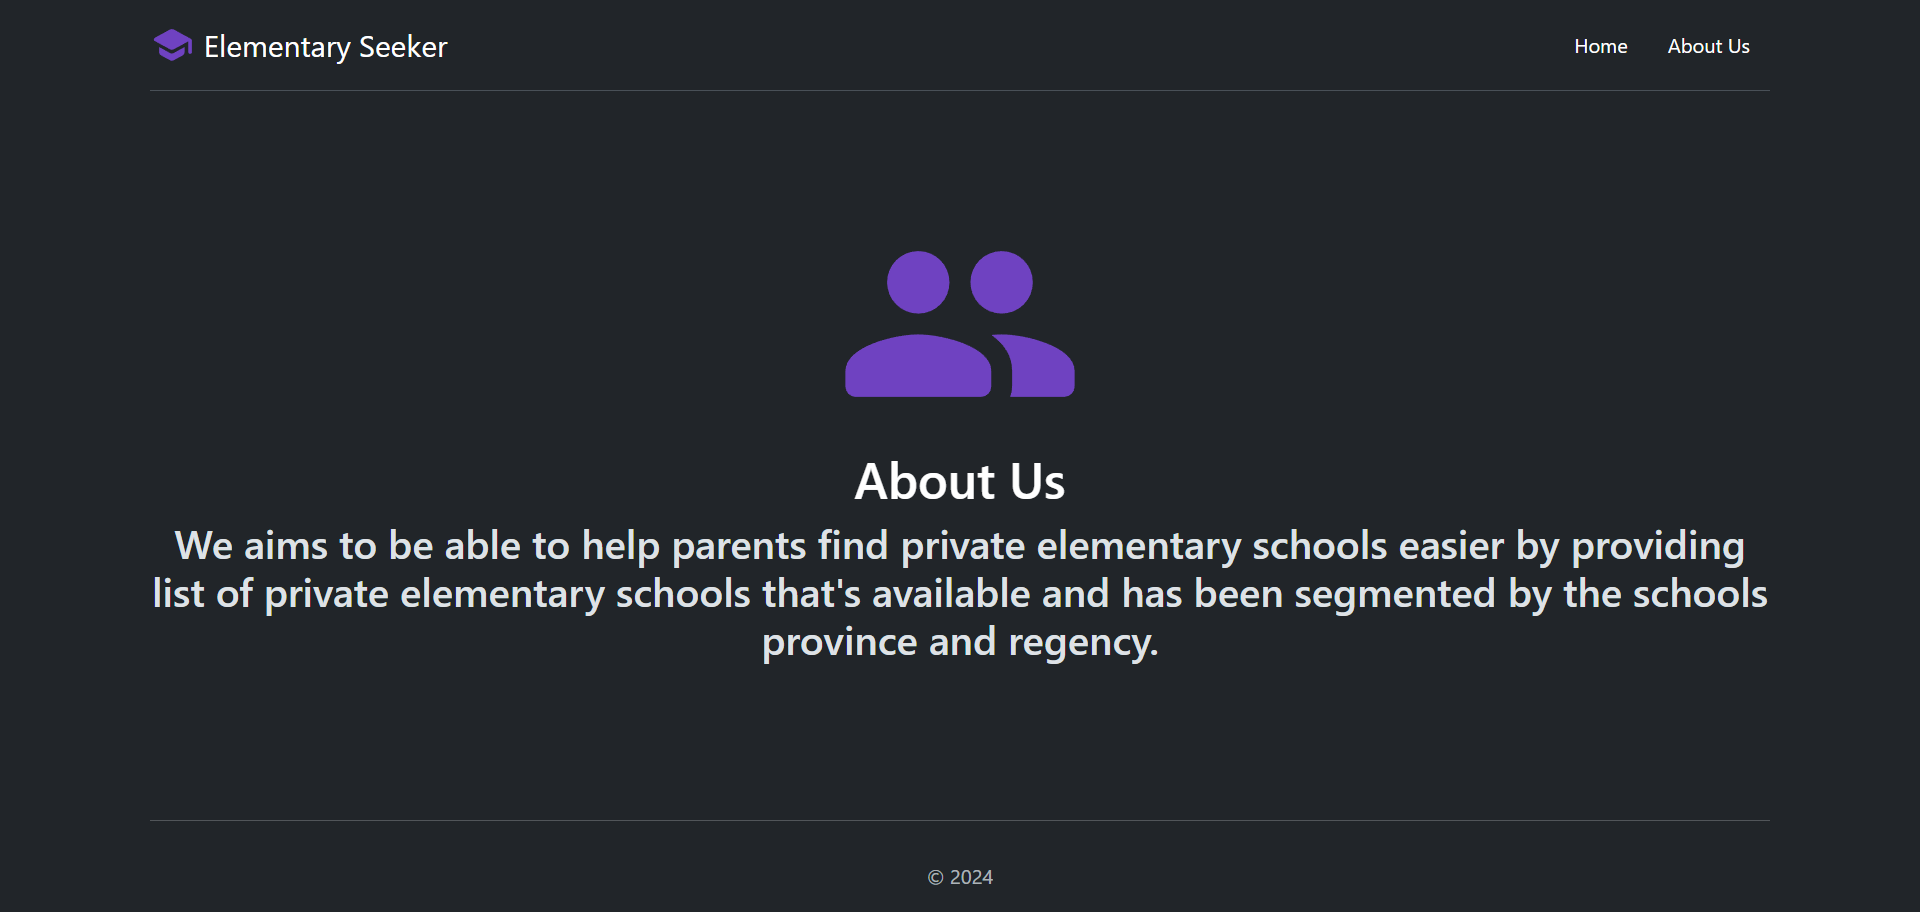
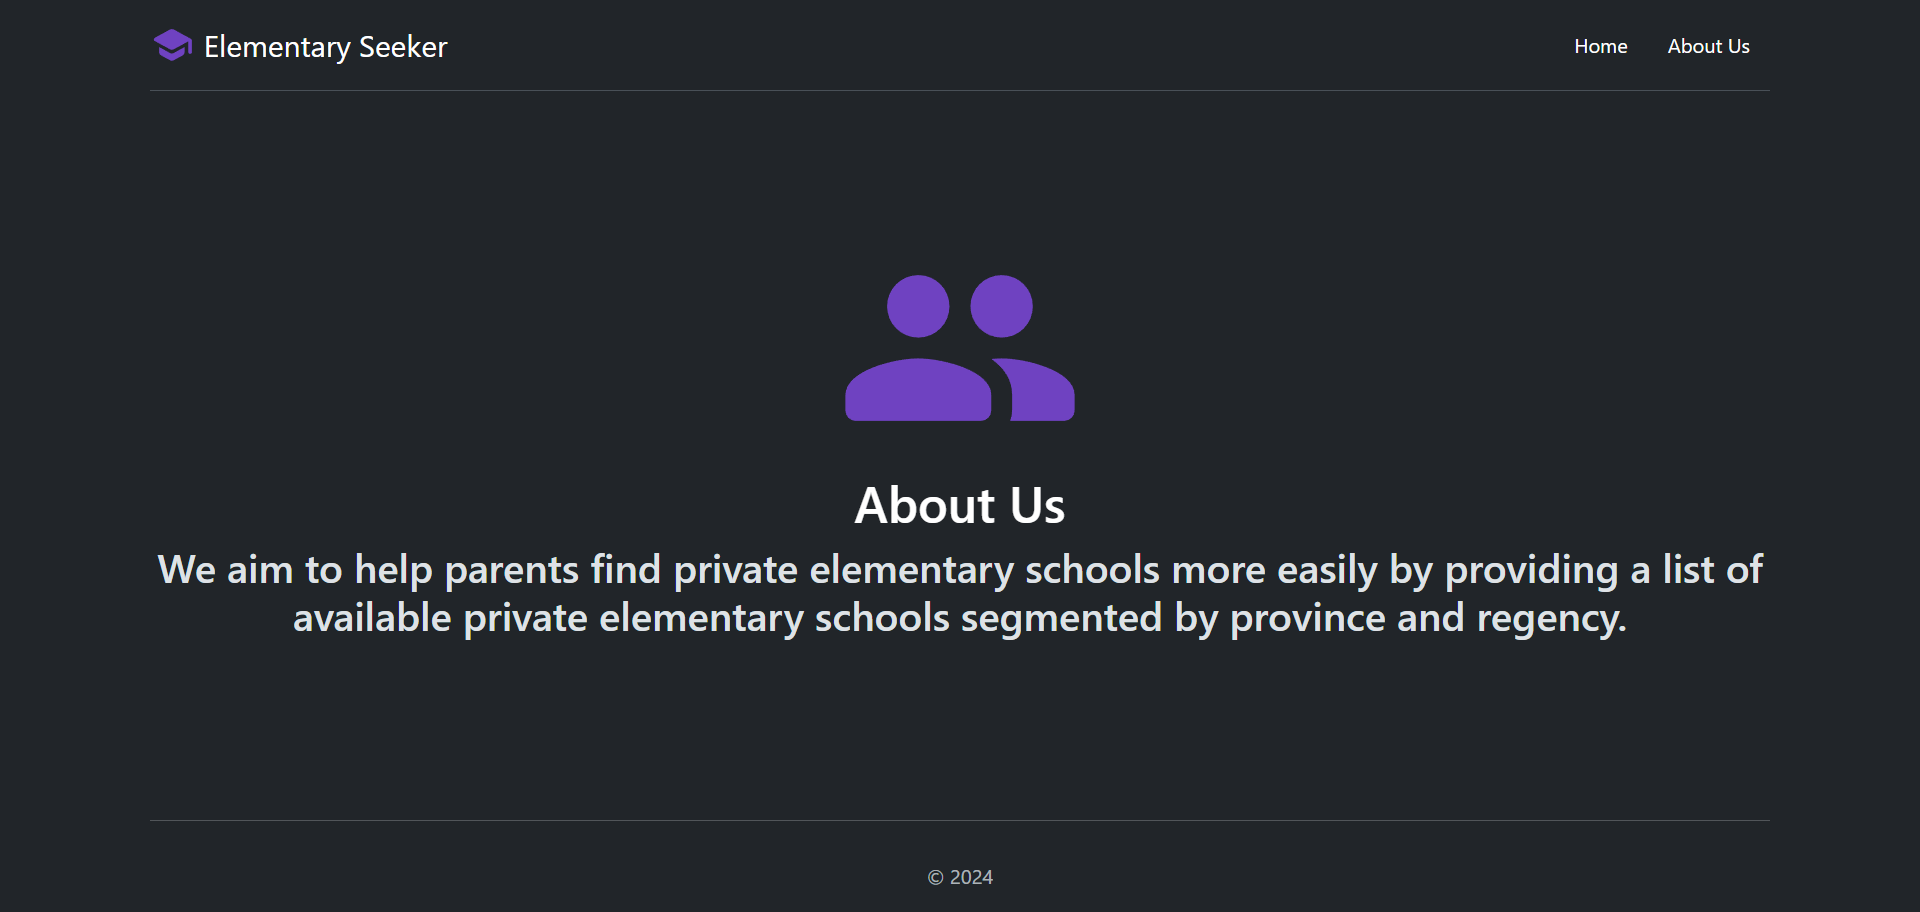
About us text update

Changed region(s): [[0.0625, 0.4912, 0.9375, 0.7368], [0.4375, 0.2763, 0.5625, 0.4605]]

diff --git a/src/pages/about_us/AboutUs.jsx b/src/pages/about_us/AboutUs.jsx
@@ -8,9 +8,9 @@ function AboutUs() {
         <GroupRoundedIcon style={{ fontSize: "200px", color: "#6f42c1" }} />
         <h1 style={{ color: "#fff" }}>About Us</h1>
         <h2>
-          We aims to be able to help parents find private elementary schools
-          easier by providing list of private elementary schools that's
-          available and has been segmented by the schools province and regency.
+          We aim to help parents find private elementary schools more easily by
+          providing a list of available private elementary schools segmented by
+          province and regency.
         </h2>
       </div>
     </div>
